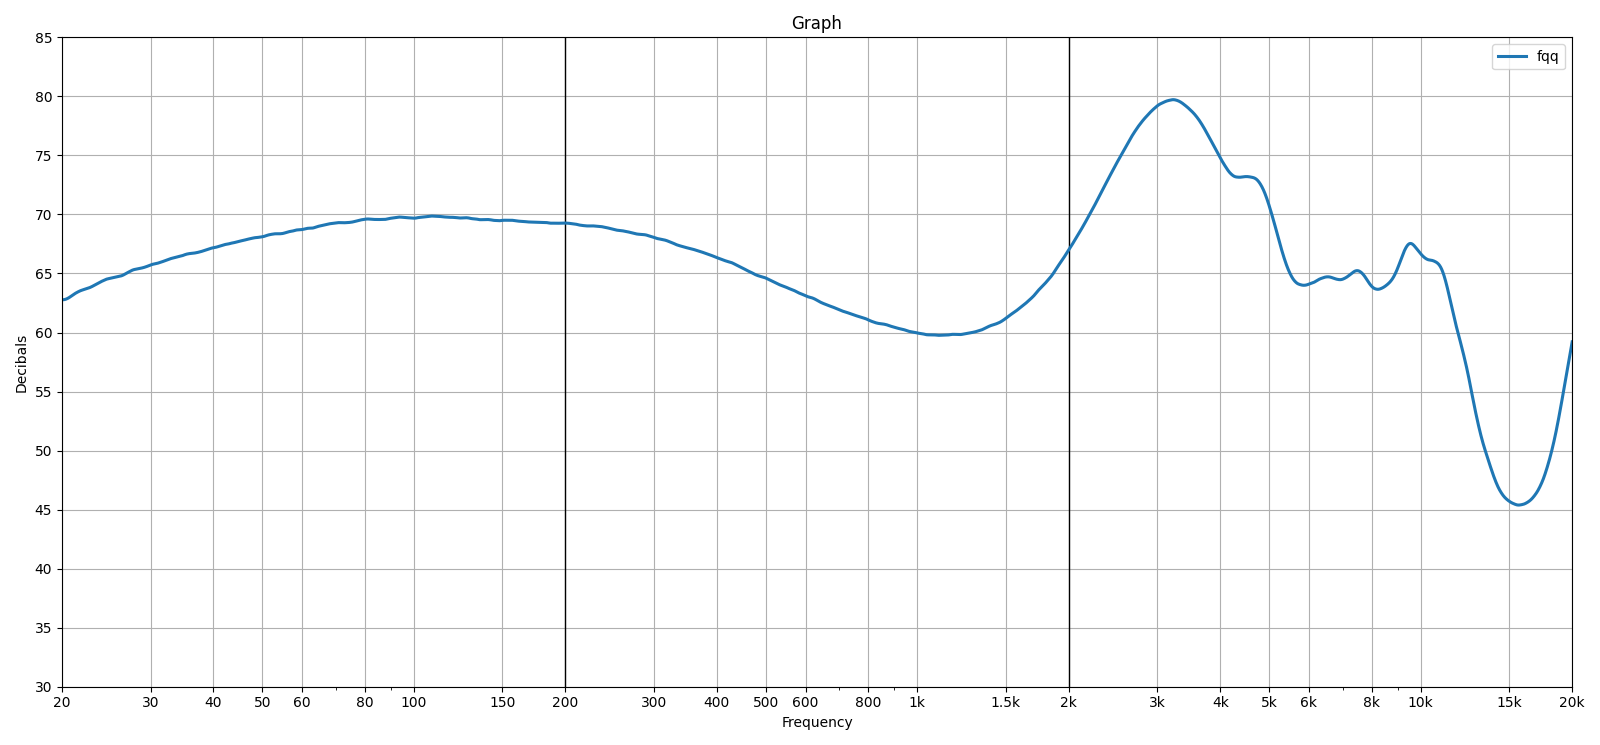
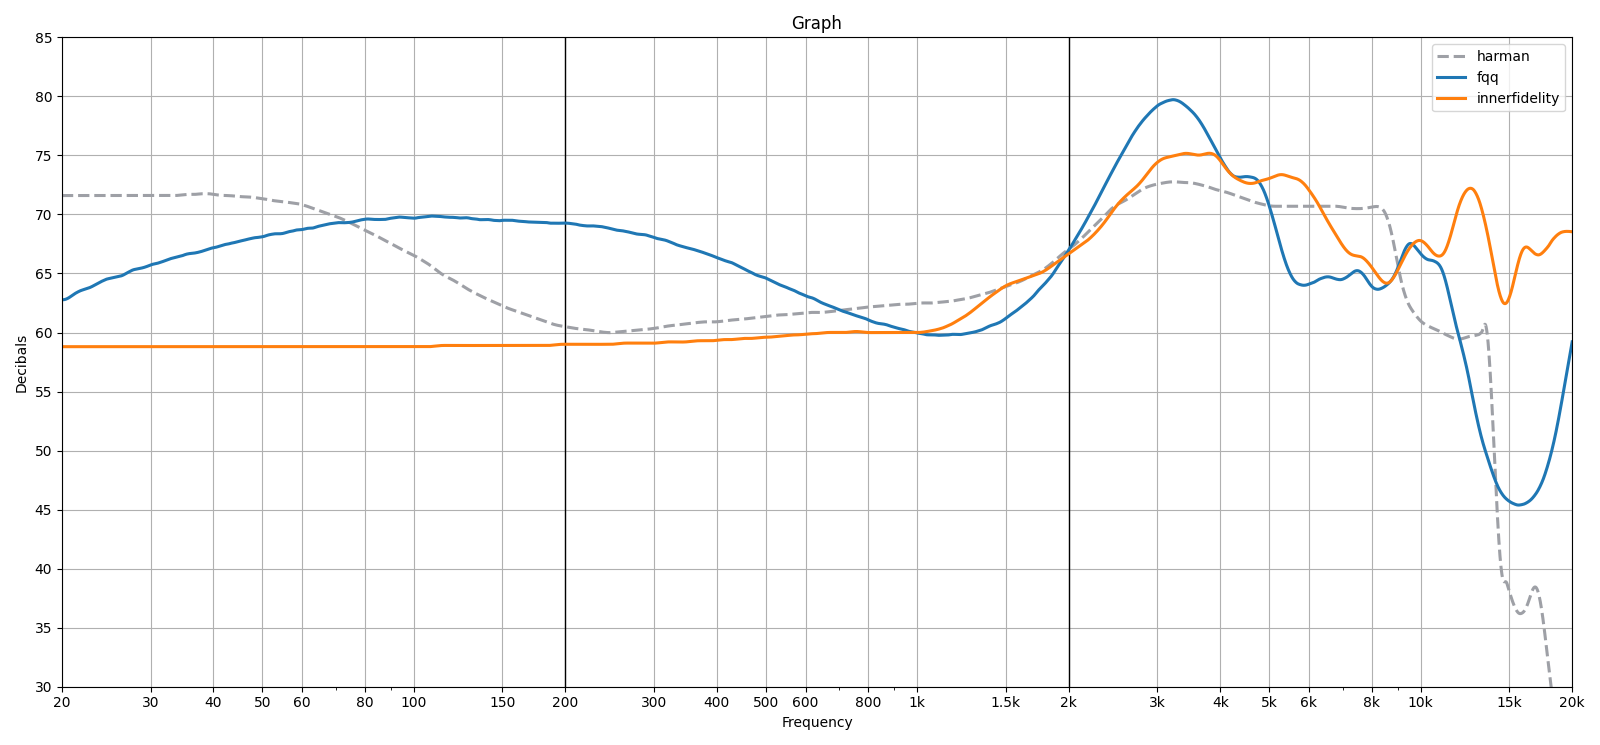
Removed some bugs

diff --git a/plotter.py b/plotter.py
@@ -8,9 +8,9 @@ from scipy.signal import savgol_filter
 
 def plot_graph():
 
-    rec_iems = ['fqq']  # list of names from phonebook returned by search function
+    rec_iems = ['fqq', 'innerfidelity']  # list of names from phonebook returned by search function
     # find file name and make another list for it
-    rec_ref = []
+    rec_ref = ['harman']
     rec_baseline = ''
     zoom = None
     
@@ -47,8 +47,8 @@ def plot_graph():
     r = 0
     for reference in rec_ref:
         ref.append(iem(reference))
-        if not ref[i].file:
-            print(f'Files for {ref[i].name} missing')
+        if not ref[r].file:
+            print(f'Files for {ref[r].name} missing')
             return
         r += 1
 
@@ -56,10 +56,10 @@ def plot_graph():
     normal = 1000
     at = 60
 
-    for iem in iems:
-        dB_1000 = iem.f(normal) - at
-        for value in range(len(iem.unfilt_new_y)):
-            iem.unfilt_new_y[value] = iem.unfilt_new_y[value] - dB_1000
+    for dev in iems:
+        dB_1000 = dev.f(normal) - at
+        for value in range(len(dev.unfilt_new_y)):
+            dev.unfilt_new_y[value] = dev.unfilt_new_y[value] - dB_1000
 
     #baselining
     if rec_baseline:
@@ -67,12 +67,12 @@ def plot_graph():
         if not baseline.file:
             print(f'Files for {baseline.name} missing')
             return
-        for iem in iems:
-            for i in range(len(iem.unfilt_new_y)):
-                iem.unfilt_new_y[i] -= baseline.unfilt_new_y[i]
-                iem.unfilt_new_y[i] += 60
+        for dev in iems:
+            for i in range(len(dev.unfilt_new_y)):
+                dev.unfilt_new_y[i] -= baseline.unfilt_new_y[i]
+                dev.unfilt_new_y[i] += 60
         for reference in ref:
-            for i in range(len(iem.unfilt_new_y)):
+            for i in range(len(reference.unfilt_new_y)):
                 reference.unfilt_new_y[i] -= baseline.unfilt_new_y[i]
                 reference.unfilt_new_y[i] += 60
 
@@ -81,9 +81,9 @@ def plot_graph():
         new_y = savgol_filter(reference.unfilt_new_y, 301, 3)
         ax = plt.plot(new_x, new_y, lw=2.2, label=reference.name, color='#9ea0a6', linestyle='--')
 
-    for iem in iems:
-        new_y = savgol_filter(iem.unfilt_new_y, 301, 3)
-        ax = plt.plot(new_x, new_y, lw=2.2, label=iem.name)
+    for dev in iems:
+        new_y = savgol_filter(dev.unfilt_new_y, 301, 3)
+        ax = plt.plot(new_x, new_y, lw=2.2, label=dev.name)
 
     if rec_baseline:
         ax = plt.plot([20, 20000], [60, 60], lw=2.2, label=baseline.name, color='#9ea0a6', linestyle='--')

diff --git a/axes_setup.py b/axes_setup.py
@@ -14,4 +14,3 @@ def setter(ax, ticker, plt):
     ax.yaxis.set_major_locator(ticker.FixedLocator((majorvaluey)))
     ax.yaxis.set_major_formatter(ticker.FixedFormatter((majorvaluey)))
     ax.set_ylim(30, 85)
-
